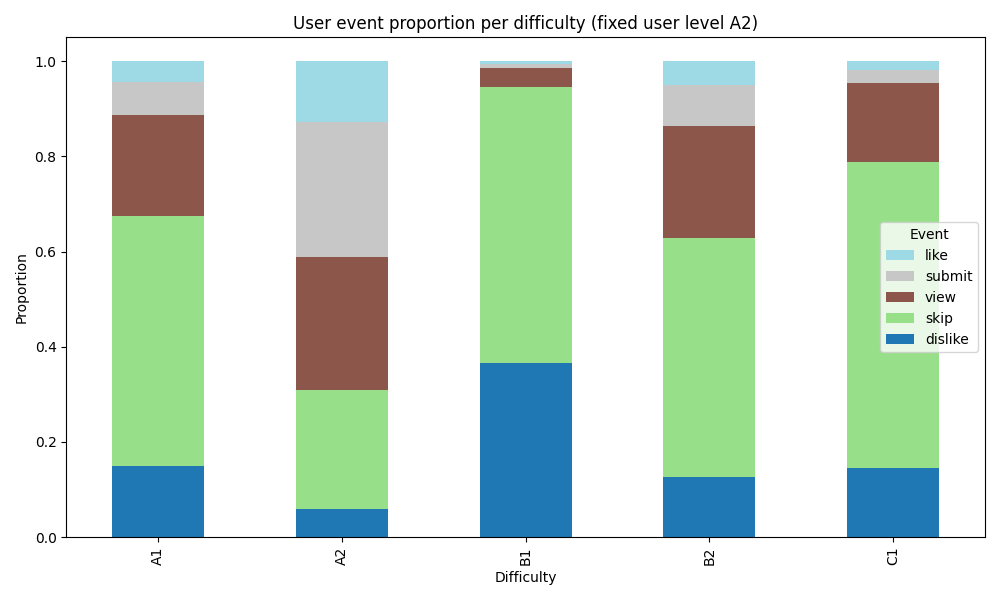
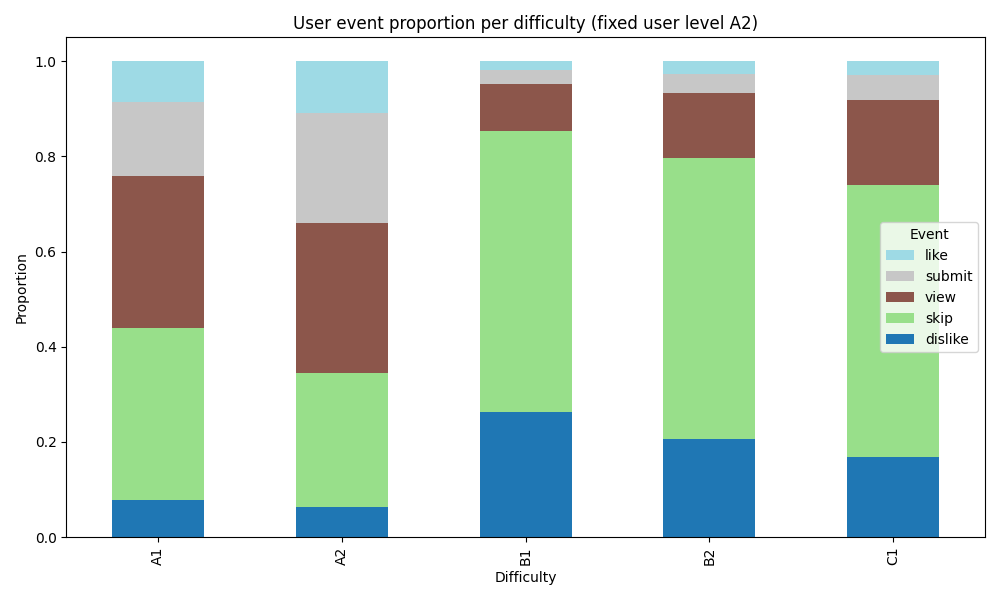
doc: 1 triệu phản hồi, viết lại hàm xử lý trùng lặp phụ đề

diff --git a/app/services/context_search.py b/app/services/context_search.py
@@ -62,7 +62,6 @@ def search_literal_subtitles(q: str, db: Connection) -> ContextSearchResponse:
     q = q.replace("'", "''")
     match_query = f'"{q}"'  # Wrap inside double quotes for phrase search
 
-
     # 1. Query FTS5
     c.execute("SELECT video_id, text, start, duration FROM clean_subtitles WHERE clean_subtitles MATCH ?", (match_query,))
     results = c.fetchall()
@@ -70,29 +69,13 @@ def search_literal_subtitles(q: str, db: Connection) -> ContextSearchResponse:
     # 2. Sort results by video_id and start time
     results.sort(key=lambda x: (x[0], x[2]))  # sort by video_id, then start
     
-    filtered = []
-    last_start_per_video = {}  # track last end time per video for overlap check
-    
-    for video_id, text, start, duration in results:
-
-        # Skip if 'overlapping' previous subtitle for same video
-        last_end = last_start_per_video.get(video_id, -1)
-        print(f"start:{start}, last_end:{last_end}")
-        if start < last_end + 10:
-            continue
-        
-        # Otherwise, keep it
-        end = start + duration
-        last_start_per_video[video_id] = end
-        filtered.append((video_id, text, start, duration))
-    
     # 3. Build response with video URL
     response: list[ContextSearchResult] = []
-    for video_id, text, start, duration in filtered:
+    for video_id, text, start, duration in results:
         c.execute("SELECT url FROM videos WHERE id=?", (video_id,))
         video_info = c.fetchone()
         video_url = f"{video_info[0]}&t={int(start)}s"
-        response.append(ContextSearchResult(url=video_url, text=text, start=float(start)))
+        response.append(ContextSearchResult(url=video_url, text=text, start=float(start), duration=float(duration)))
     return response
 
 def search_semantic_subtitles(query: str, n_results: int, collection) -> ContextSearchResponse:
@@ -107,8 +90,9 @@ def search_semantic_subtitles(query: str, n_results: int, collection) -> Context
     for text, meta in zip(documents, metadatas):
         video_id = meta["video_id"]
         start = meta["start"]
+        duration = meta["duration"]
         url = build_youtube_url(video_id, start)
-        response.append(ContextSearchResult(url=url, text=text, start=float(start)))
+        response.append(ContextSearchResult(url=url, text=text, start=float(start), duration=float(duration)))
     return response
 
 def remove_duplicates(results):
@@ -116,22 +100,15 @@ def remove_duplicates(results):
     results: list of (video_id, text, start, duration) OR
              list of ContextSearchResult (having .url, .text, .start and metadata)
     """
-    seen = set()
     unique = []
-    
+    last_start_per_video = {}
     for item in results:
-        # Handle both tuple and dataclass/object
-        if isinstance(item, tuple):
-            video_id = item[0]
-            start = item[2]
-        else:  # ContextSearchResult or similar object
-            # extract video_id & start from metadata encoded in URL
-            video_id = item.url.split("v=")[-1].split("&")[0]
-            start = int(item.start)
-        
-        key = (video_id, start)
-        if key not in seen:
-            seen.add(key)
+        video_id = item.url.split("v=")[-1].split("&")[0]
+        start = item.start
+        if start > last_start_per_video.get(video_id, -99) + 10:
             unique.append(item)
+
+        duration = item.duration
+        last_start_per_video[video_id] = start + duration
 
     return unique

diff --git a/app/api/context_search.py b/app/api/context_search.py
@@ -18,7 +18,9 @@ collection = chroma_client.get_collection("subtitles")
 @router.post("/search", response_model=ContextSearchResponse)
 def search_subtitles(req: ContextSearchRequest, db: Connection = Depends(get_db)):
     literal_results = context_search.search_literal_subtitles(req.query, db)
+    print('search_literal_subtitles')
     semantic_results = context_search.search_semantic_subtitles(req.query, req.n_results, collection)
+    print('search_semantic_subtitles')
     return context_search.remove_duplicates(literal_results + semantic_results)
     
 

diff --git a/reading_env_rw_vis_init_state.py b/reading_env_rw_vis_init_state.py
@@ -26,7 +26,7 @@ with Session(engine) as session:
     reading_embeddings, item_ids = readings.get_all_embeddings(session)
 
     # Chạy simulation trên nhiều item random
-    n_samples = 100000  # số lượng item random để probe
+    n_samples = 1000000  # số lượng item random để probe
     history = []
     difficulties = []
     rng = np.random.default_rng(123)

diff --git a/app/schemas.py b/app/schemas.py
@@ -113,6 +113,7 @@ class ContextSearchResult(SQLModel):
     url: str
     text: str
     start: float
+    duration: float
 
 # The top-level response is a list of SearchResult objects
 ContextSearchResponse = list[ContextSearchResult]
